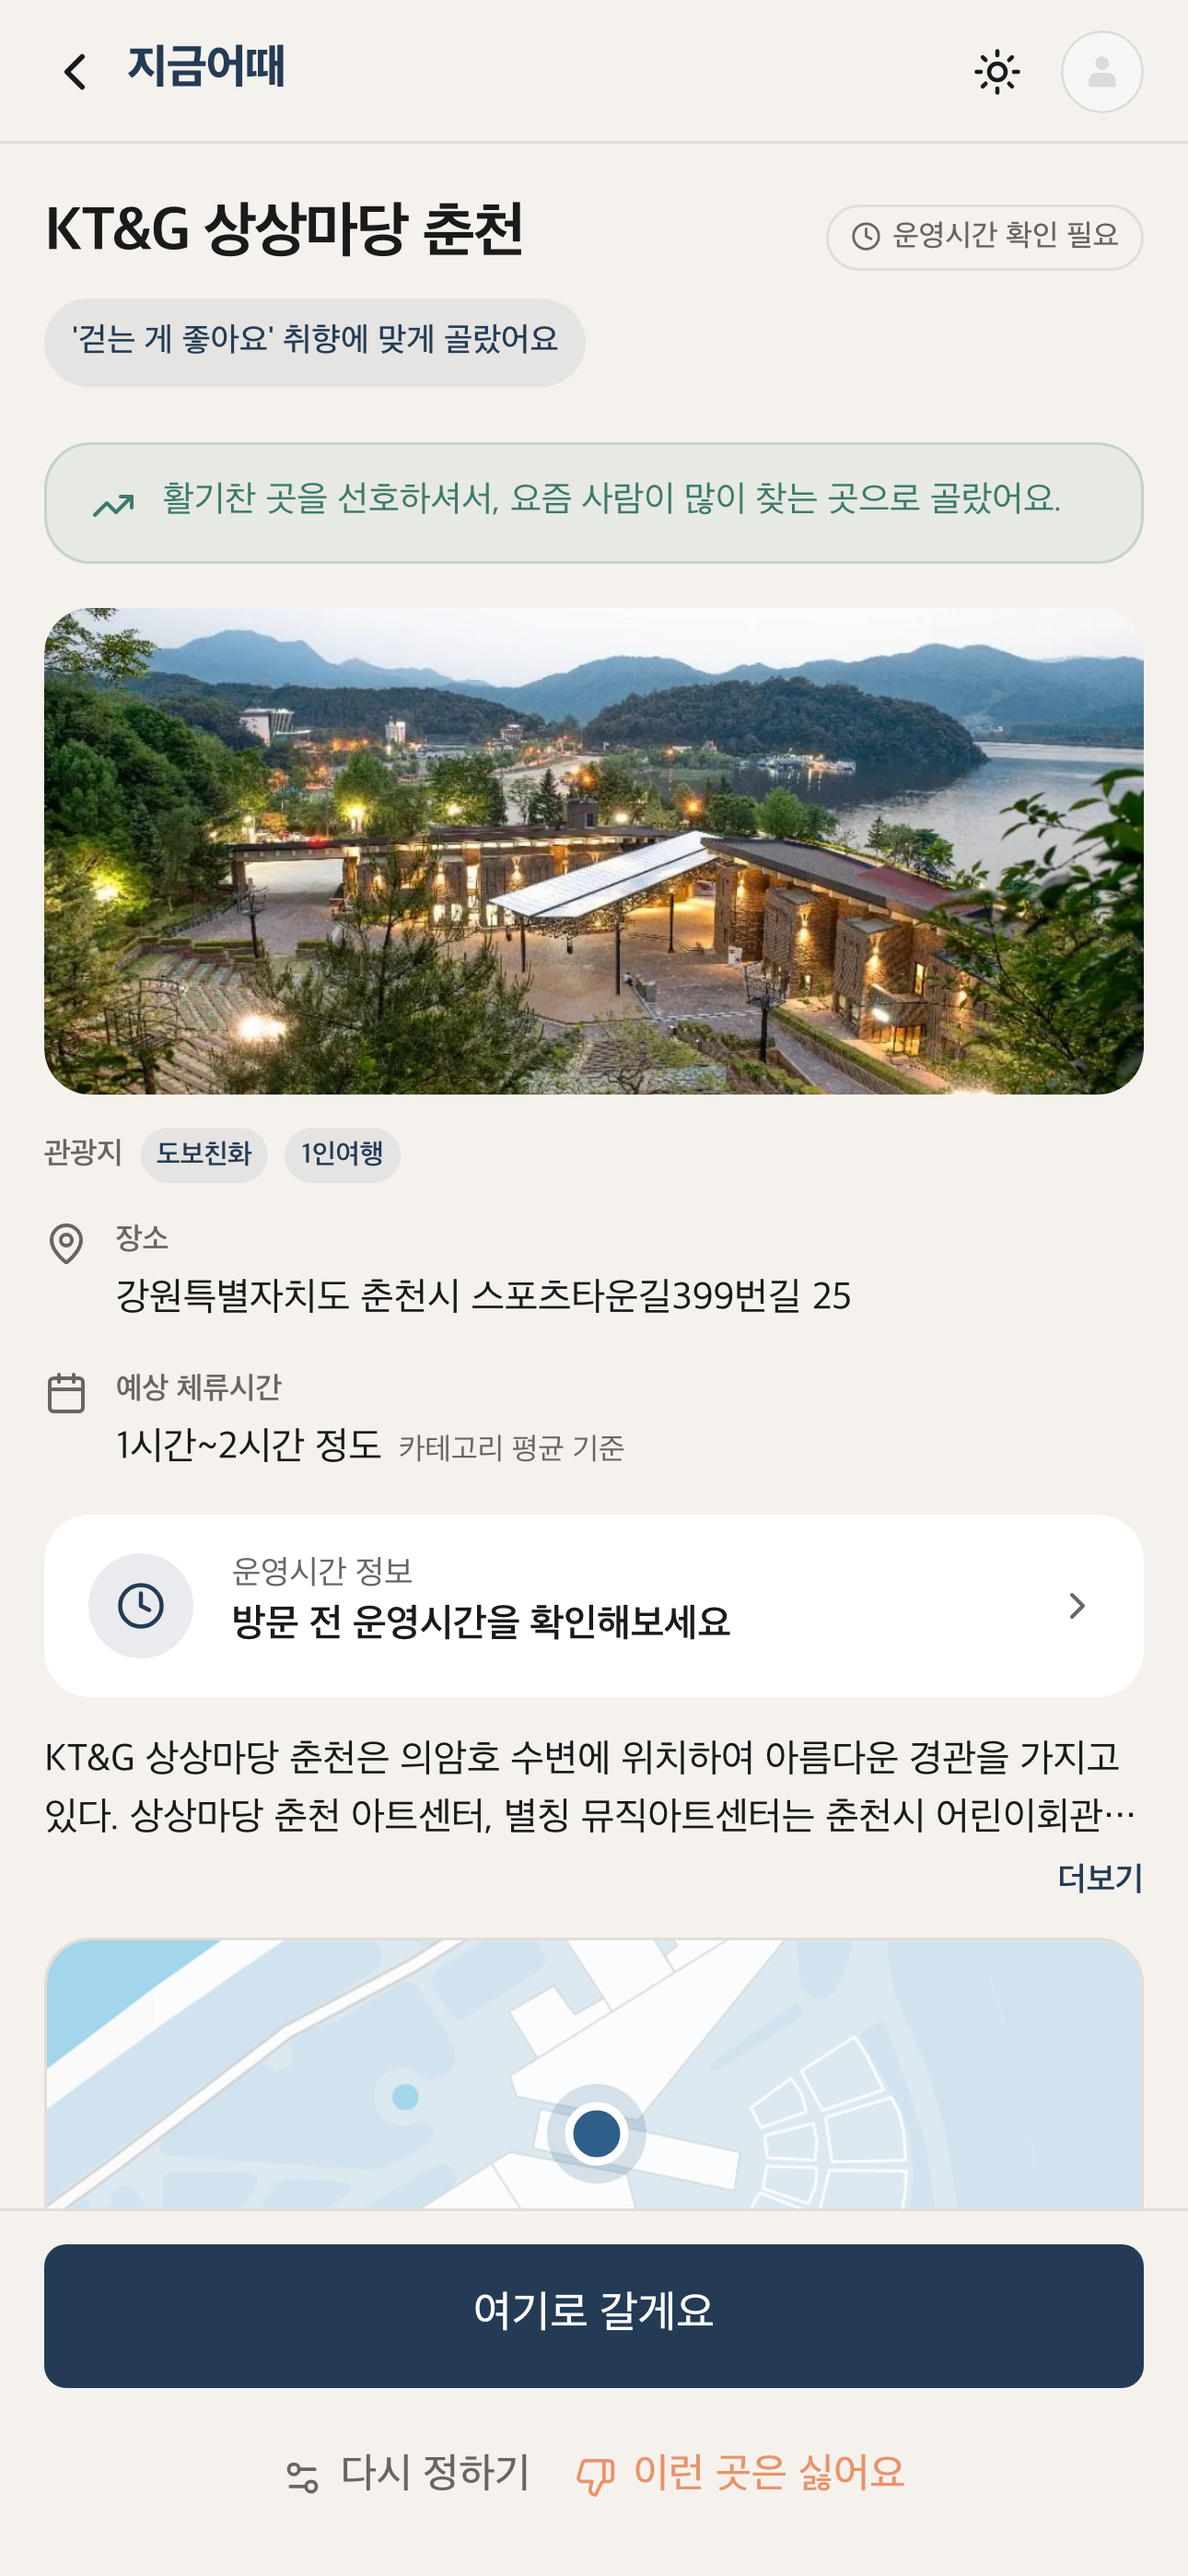
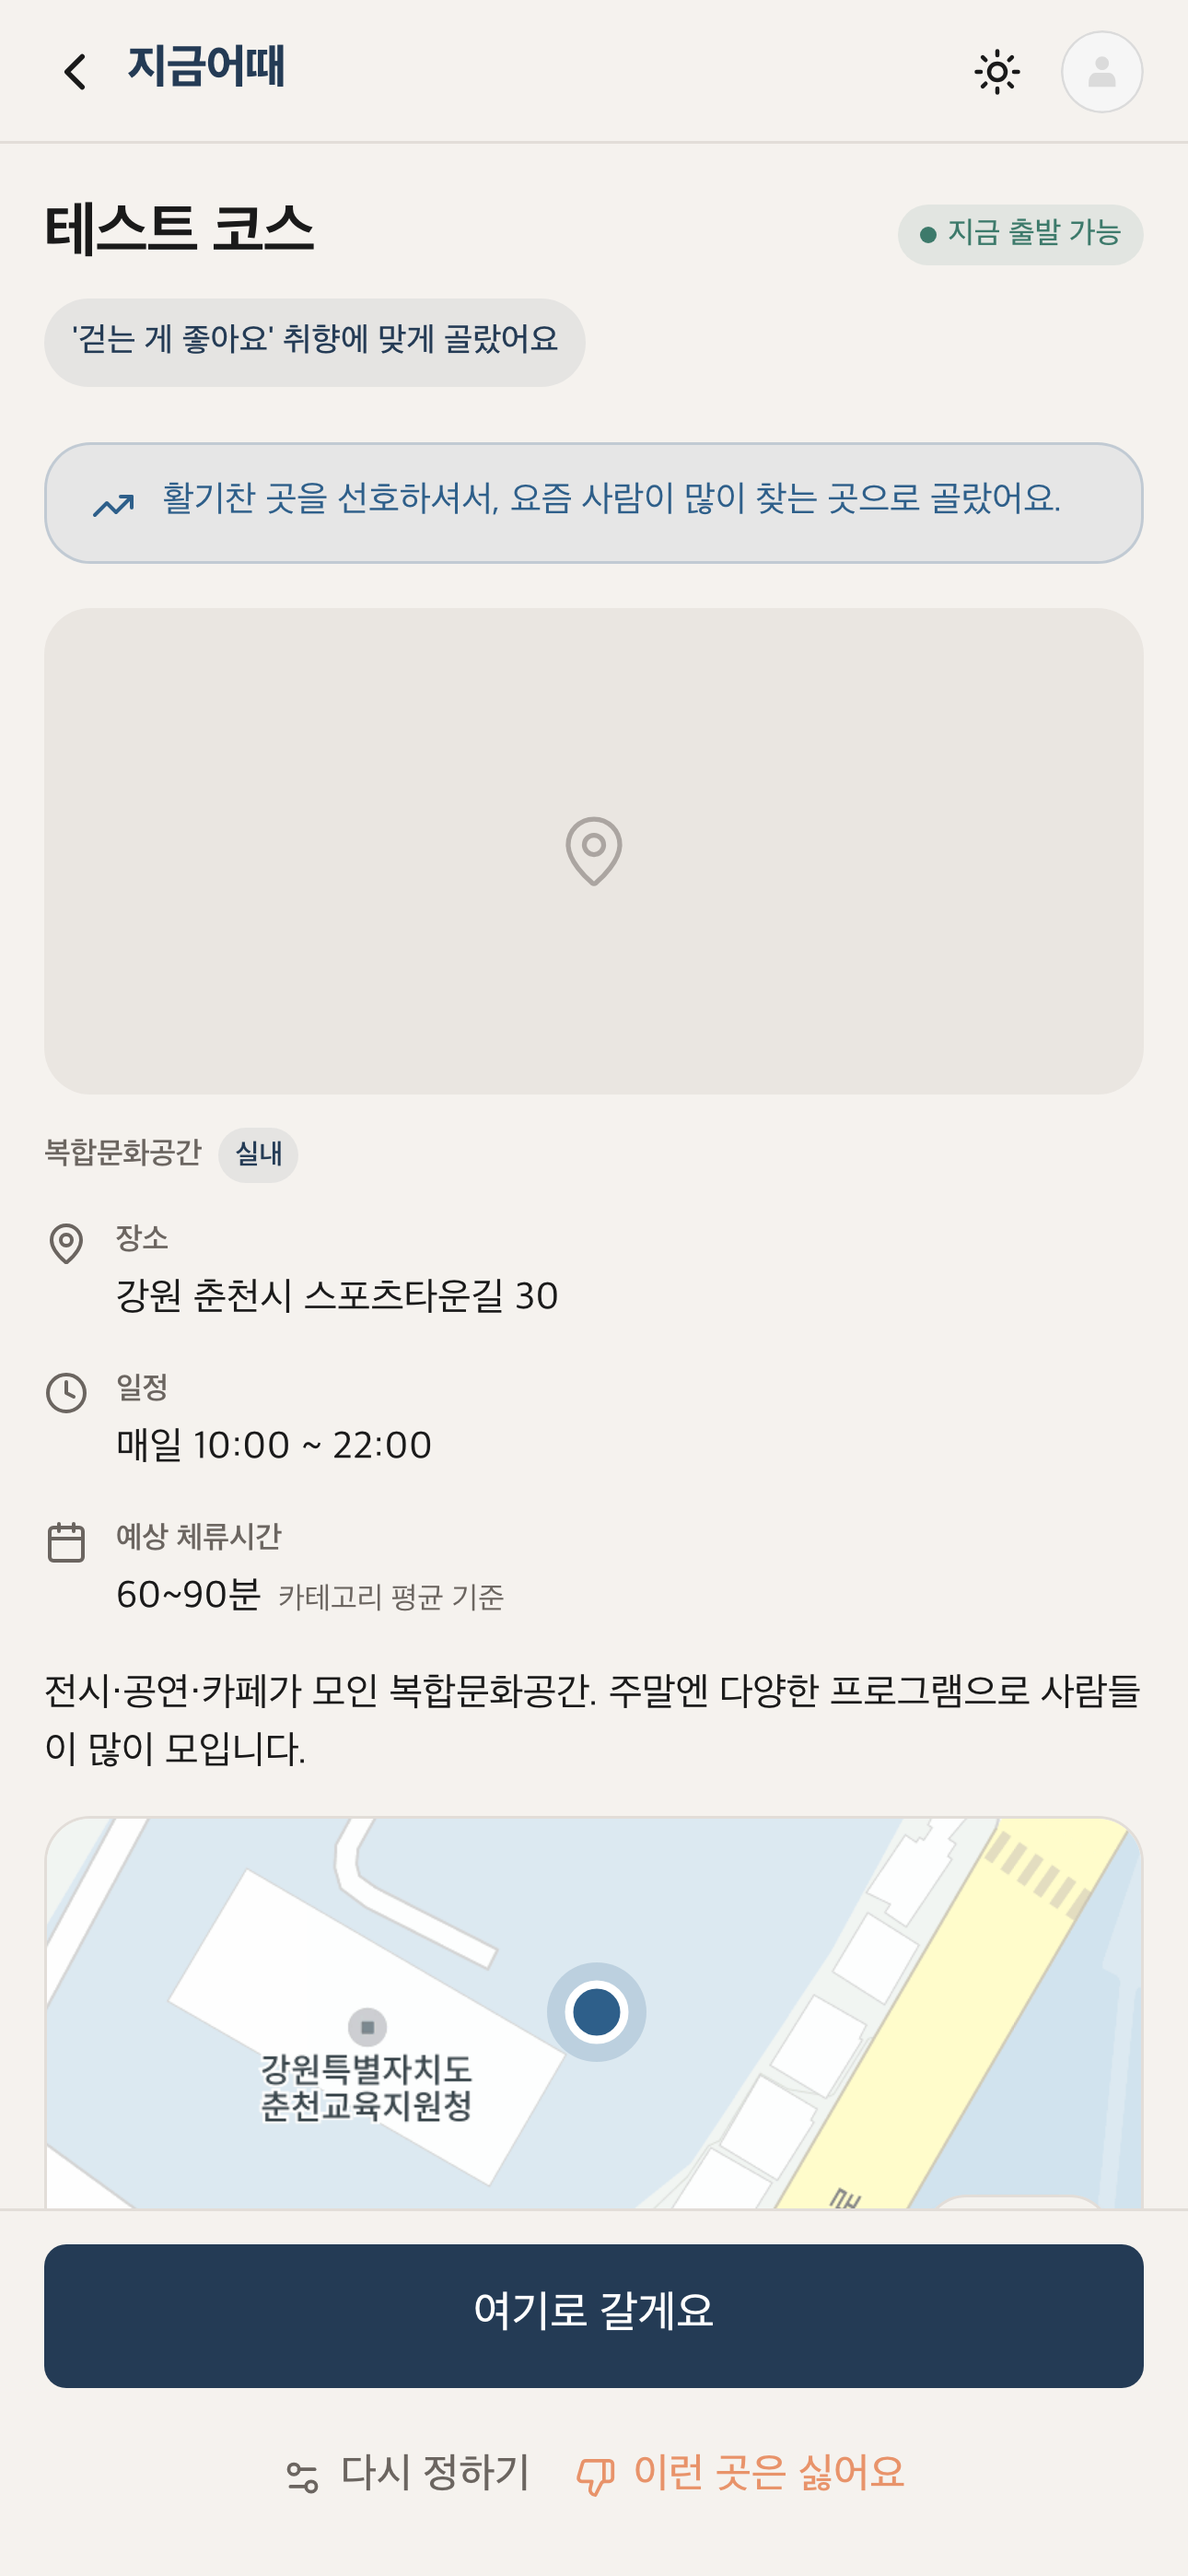
feat: 코스 결과 취향 라벨링 체계화 및 집중률 배너 색상 수정 (#28)
## 변경 사항

### 기능 추가
- 코스 결과 화면 취향 칩을 "이동 방식(prefs.travel) 고정 표시"에서 "온보딩 4문항 중 이 장소 점수에 가장 크게
기여한 태그(topPreferenceTag)"로 교체. stage4에서 이미 계산되던 태그별 원점수와 사용자가 선택한 태그를 한
단계 더 뽑아 반영했다. 동점은 tagWeights 선언 순서(도보친화→1인여행→실내→조용함)로 결정론적으로 해소한다.

### 버그 수정
- 집중률 안내 배너 색상을 accent(초록)에서 secondary(파랑)로 변경. 화면 내 다른 요소와 어울리는 곳이 없어
유독 튀는 문제가 있었다. 날씨 배너(primary)와 같은 블루 계열이되 다른 명도로 구분해 두 배너가 한 시스템처럼 보이게
했다.

### 타입 / 구조
- `TagKey`/`TagWeights` 타입을 `lib/pipeline/types.ts`에서
`shared/constants/preferences.ts`로 이전. `shared/`가 `lib/`를 import할 수 없는
레이어 규칙(AGENTS.md 1번) 때문에, `JourneyPlace`(shared)가 참조해야 하는 공유 어휘를 shared로
옮기고 lib이 재수출하도록 뒤집었다.

---

## 스크린샷 (UI 변경 시)

같은 데이터로 코드 변경 전/후만 다르게 캡처한 진짜 전후쌍이다(원본 1290×2796의 50% 크기).

| Before | After |
|--------|-------|
| <img
src="https://raw.githubusercontent.com/guen9310/Instant-Trip/fix/concentration-banner-color/.github/screenshots/compare/banner-before.png"
width="320"> | <img
src="https://raw.githubusercontent.com/guen9310/Instant-Trip/fix/concentration-banner-color/.github/screenshots/compare/banner-after.png"
width="320"> |
| <img
src="https://raw.githubusercontent.com/guen9310/Instant-Trip/fix/concentration-banner-color/.github/screenshots/compare/chip-before.png"
width="320"> | <img
src="https://raw.githubusercontent.com/guen9310/Instant-Trip/fix/concentration-banner-color/.github/screenshots/compare/chip-after.png"
width="320"> |

- 1행: 집중률 배너 accent(초록) → secondary(파랑)
- 2행: 취향 칩 — 이동 방식(이동 최소화) 고정 표시 → 실제 최고 기여 태그(실내 활동) 표시

---

## 체크리스트
[…]

diff --git a/components/domains/course/CourseResultView.tsx b/components/domains/course/CourseResultView.tsx
@@ -38,7 +38,7 @@ import type {
   WeatherSwitchReason,
   ConcentrationSwitchReason,
 } from "@/shared/types/course.types";
-import type { Prefs } from "@/shared/constants/preferences";
+import type { Prefs, TagKey } from "@/shared/constants/preferences";
 import { PlaceThumbnail } from "@/components/domains/course/PlaceThumbnail";
 import { NearbyRestaurants } from "@/components/domains/course/NearbyRestaurants";
 import { CourseMap } from "@/components/domains/course/CourseMap";
@@ -46,9 +46,12 @@ import { HoursInfoCard } from "@/components/domains/course/HoursInfoCard";
 import { PlaceDescription } from "@/components/domains/course/PlaceDescription";
 import { CourseResultSkeleton } from "@/components/domains/course/CourseResultSkeleton";
 
-const TRAVEL_REASON: Record<string, string> = {
-  walk: "걷는 게 좋아요",
-  min: "이동 최소화",
+// 취향 칩 문구 — 온보딩 4문항 중 이 장소의 원점수가 가장 높았던 태그 1개만 노출한다.
+const TAG_REASON_LABEL: Record<TagKey, string> = {
+  도보친화: "걷는 게 좋아요",
+  "1인여행": "혼자 여행",
+  실내: "실내 활동",
+  조용함: "조용한 분위기",
 };
 
 const REJECT_REASONS = [
@@ -361,11 +364,11 @@ export function CourseResultView({
         {/* 취향 칩 + 재추천 사유 칩 — 세로 스택(gap 6px). 사유 칩은 리롤이 실제로
             그 사유를 해소했을 때만 useCourseResult가 채워준다(거짓 주장 방지 —
             useCourseResult.ts의 검증 로직 참고). */}
-        {(prefs || reasonChip) && (
+        {(currentPlace.topPreferenceTag || reasonChip) && (
           <div className="flex flex-col items-start gap-1.5 mb-5">
-            {prefs && (
+            {currentPlace.topPreferenceTag && (
               <div className="inline-flex self-start items-center gap-1.5 px-2.5 py-1.5 rounded-full bg-primary/8 text-primary text-[12px] font-medium">
-                {`'${TRAVEL_REASON[prefs.travel] ?? prefs.travel}' 취향에 맞게 골랐어요`}
+                {`'${TAG_REASON_LABEL[currentPlace.topPreferenceTag]}' 취향에 맞게 골랐어요`}
               </div>
             )}
             {reasonChip && (
@@ -403,14 +406,15 @@ export function CourseResultView({
           </div>
         )}
 
-        {/* 집중률 게이트 안내 — 취향 매칭 성공을 알리는 긍정 톤(accent) */}
+        {/* 집중률 게이트 안내 — 날씨 배너(primary)와 같은 계열이되 다른 명도(secondary)로
+            구분한다. accent(초록)는 화면 내 다른 요소와 어울리는 곳이 없어 튀는 문제가 있었다. */}
         {concentrationSwitch && (
-          <div className="flex items-start gap-2.5 px-4 py-3 rounded-xl bg-accent/8 border border-accent/20 mb-4">
+          <div className="flex items-start gap-2.5 px-4 py-3 rounded-xl bg-secondary/8 border border-secondary/20 mb-4">
             {(() => {
               const Icon = CONCENTRATION_SWITCH_ICON[concentrationSwitch];
-              return <Icon size={16} className="text-accent shrink-0 mt-0.5" />;
+              return <Icon size={16} className="text-secondary shrink-0 mt-0.5" />;
             })()}
-            <p className="text-[13px] text-accent leading-snug">
+            <p className="text-[13px] text-secondary leading-snug">
               {CONCENTRATION_SWITCH_TEXT[concentrationSwitch]}
             </p>
           </div>

diff --git a/lib/pipeline/types.ts b/lib/pipeline/types.ts
@@ -7,12 +7,11 @@ import type {
   WeatherSwitchReason,
   ConcentrationSwitchReason,
 } from "@/shared/types/course.types";
+import type { TagKey, TagWeights } from "@/shared/constants/preferences";
+
+export type { TagKey, TagWeights };
 
 export type TravelScale = "가볍게" | "적당히" | "여유롭게";
-
-export type TagKey = "도보친화" | "1인여행" | "실내" | "조용함";
-
-export type TagWeights = Record<TagKey, number>;
 
 export interface OnboardingAnswers {
   걷는거좋아요: boolean;
@@ -59,6 +58,10 @@ export interface PlaceCandidate {
   item: TourItem;
   tagScores: Record<TagKey, number>;
   tags: TagKey[];
+  // 사용자가 선택한(tagWeights>0) 태그 중 이 장소의 tagScores가 가장 높은 것.
+  // 온보딩 4문항이 전부 "반대쪽"이라 선택된 태그가 하나도 없으면 null — 직접
+  // 선택 진입(selectPlace/selectFestival)도 온보딩 매칭 개념이 없어 null.
+  topPreferenceTag: TagKey | null;
   score: number;
   available: boolean;
   availabilityUncertain: boolean;
@@ -87,6 +90,7 @@ export interface CoursePlace {
   images: string[];
   coord: { lat: number; lng: number } | null;
   tags: TagKey[];
+  topPreferenceTag: TagKey | null;
   score: number;
   availabilityUncertain: boolean;
   estimatedDuration: DurationRange;

diff --git a/lib/pipeline/scoring.ts b/lib/pipeline/scoring.ts
@@ -241,7 +241,20 @@ export async function scoreCandidates(
     const tags = (Object.entries(tagScores) as [TagKey, number][])
       .filter(([, s]) => s > 0)
       .map(([t]) => t);
-    return { item, tagScores, tags, score, available: true, availabilityUncertain: false, estimatedDuration: dur, hours: null, restDayNote: null };
+
+    // 사용자가 선택한(weight>0) 태그 중 이 장소의 원점수가 가장 높은 것을 뽑는다.
+    // 동점은 tagWeights 선언 순서(도보친화→1인여행→실내→조용함)로 결정론적으로 해소.
+    const selectedTags = (Object.keys(profile.tagWeights) as TagKey[]).filter(
+      (t) => (profile.tagWeights[t] ?? 0) > 0,
+    );
+    const topPreferenceTag =
+      selectedTags.length > 0
+        ? selectedTags.reduce((best, t) =>
+            (tagScores[t] ?? 0) > (tagScores[best] ?? 0) ? t : best,
+          )
+        : null;
+
+    return { item, tagScores, tags, topPreferenceTag, score, available: true, availabilityUncertain: false, estimatedDuration: dur, hours: null, restDayNote: null };
   });
 
   scored.sort((a, b) => b.score - a.score);

diff --git a/shared/types/course.types.ts b/shared/types/course.types.ts
@@ -1,5 +1,5 @@
 import type { DurationRange } from "@/shared/utils/duration";
-import type { Prefs } from "@/shared/constants/preferences";
+import type { Prefs, TagKey } from "@/shared/constants/preferences";
 import type { AvailabilityStatus } from "@/shared/types/availability.types";
 
 export type BadgeVariant = "accent" | "secondary" | "point" | "outline";
@@ -44,6 +44,10 @@ export type JourneyPlace = {
   availabilityUncertain: boolean;
   estimatedDuration: DurationRange;
   tags: string[];
+  // 사용자가 선택한 온보딩 태그 중 이 장소의 점수가 가장 높았던 것. 선택된 태그가
+  // 없거나(온보딩 4문항 전부 반대쪽) 직접 선택 진입이면 null. 구버전 localStorage
+  // 페이로드엔 없을 수 있어 optional.
+  topPreferenceTag?: TagKey | null;
   // 이 장소가 취향 추천(stage4 점수화)으로 왔는지, 홈 근처 카드에서 직접 선택했는지.
   // 구버전 localStorage 페이로드엔 없을 수 있어 optional.
   origin?: "recommended" | "selected";

diff --git a/lib/pipeline/course.ts b/lib/pipeline/course.ts
@@ -162,6 +162,7 @@ export async function buildCoursePlace(
       images: [],
       coord: !isNaN(lat) && !isNaN(lng) ? { lat, lng } : null,
       tags: candidate.tags,
+      topPreferenceTag: candidate.topPreferenceTag,
       score: candidate.score,
       availabilityUncertain: candidate.availabilityUncertain,
       estimatedDuration: candidate.estimatedDuration,
@@ -194,6 +195,7 @@ export async function buildCoursePlace(
     images,
     coord: !isNaN(lat) && !isNaN(lng) ? { lat, lng } : null,
     tags: candidate.tags,
+    topPreferenceTag: candidate.topPreferenceTag,
     score: candidate.score,
     availabilityUncertain: candidate.availabilityUncertain,
     estimatedDuration: candidate.estimatedDuration,

diff --git a/shared/constants/preferences.ts b/shared/constants/preferences.ts
@@ -14,6 +14,13 @@ import {
 
 export type PrefKey = "travel" | "party" | "vibe" | "food" | "indoor";
 
+// 온보딩 답변이 매핑되는 추천 점수 태그. lib/pipeline/scoring.ts(장소 분류 코드 →
+// 태그 점수)와 lib/tour/mappers.ts(온보딩 답변 → 태그 가중치) 양쪽이 공유하는
+// 어휘라 shared에 둔다 — lib는 shared를 import할 수 있지만 반대는 불가능하므로.
+export type TagKey = "도보친화" | "1인여행" | "실내" | "조용함";
+
+export type TagWeights = Record<TagKey, number>;
+
 export type Prefs = {
   travel: "walk" | "min";
   party: "solo" | "group";

diff --git a/lib/pipeline/selectPlace.ts b/lib/pipeline/selectPlace.ts
@@ -103,6 +103,8 @@ export async function generateCourseFromPlace(
       item,
       tagScores,
       tags,
+      // 직접 선택된 장소라 온보딩 매칭 개념 자체가 없다 — score와 동일한 "적용 불가" 취급.
+      topPreferenceTag: null,
       // 직접 선택된 장소라 순위가 없다 — score는 추천 점수와 비교되지 않는 "적용 불가" 값.
       score: 0,
       available: true,

diff --git a/lib/pipeline/selectFestival.ts b/lib/pipeline/selectFestival.ts
@@ -119,6 +119,7 @@ export async function generateCourseFromFestival(
       images: imageUrl ? [imageUrl] : [],
       coord: { lat, lng },
       tags: [],
+      topPreferenceTag: null,
       score: 0,
       // 이 플래그는 날짜(YYYY-MM-DD) 기준 확실성만 본다 — 날짜는 항상 확실한 값이라
       // false로 고정한다. playtime(당일 시간대) 판정의 no_data/uncertain 여부는 아래

diff --git a/lib/tour/mappers.ts b/lib/tour/mappers.ts
@@ -81,6 +81,7 @@ export function coursePlaceToJourneyPlace(p: CoursePlace): JourneyPlace {
     availabilityUncertain: p.availabilityUncertain,
     estimatedDuration: p.estimatedDuration,
     tags: p.tags,
+    topPreferenceTag: p.topPreferenceTag,
     origin: p.origin,
     placeUrl: p.placeUrl,
     programInfo: p.programInfo,

diff --git a/tests/unit/weatherGate.test.ts b/tests/unit/weatherGate.test.ts
@@ -37,6 +37,7 @@ function makeCandidate(
     item: makeItem(contentid, itemOverrides),
     tagScores: { 도보친화: 0, "1인여행": 0, 실내: 0, 조용함: 0 },
     tags: [],
+    topPreferenceTag: null,
     score,
     available: true,
     availabilityUncertain: false,

diff --git a/tests/unit/availabilityGate.test.ts b/tests/unit/availabilityGate.test.ts
@@ -37,6 +37,7 @@ function makeCandidate(
     item,
     tagScores: { 도보친화: 0, "1인여행": 0, 실내: 0, 조용함: 0 },
     tags: [],
+    topPreferenceTag: null,
     score,
     available: true,
     availabilityUncertain: false,
